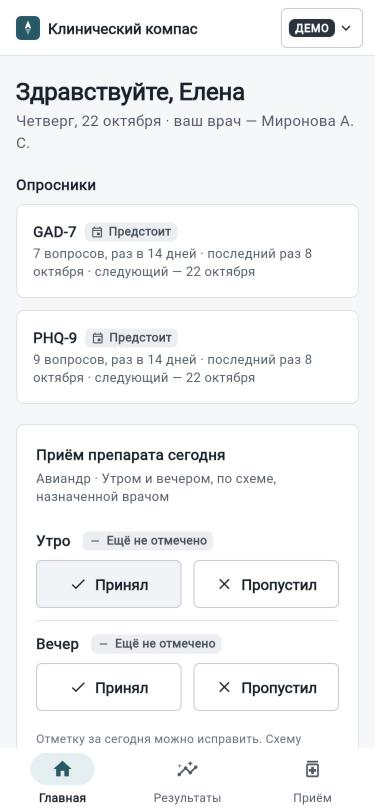
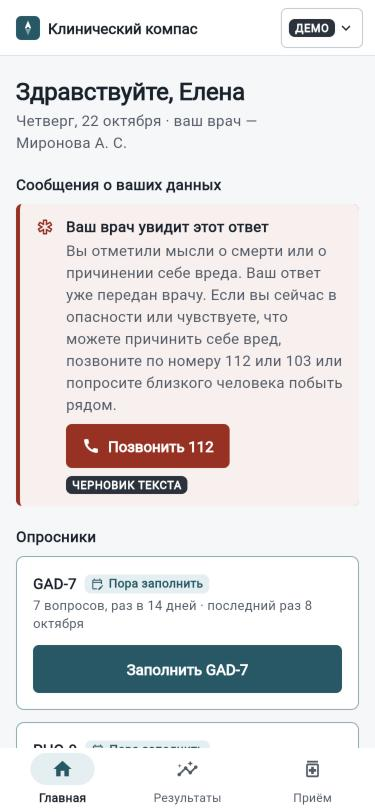
feat: entry layout for phones, call-112 button on the emergency notice

diff --git a/lib/presentation/entry/entry_screen.dart b/lib/presentation/entry/entry_screen.dart
@@ -19,6 +19,7 @@ class EntryScreen extends StatelessWidget {
     final width = MediaQuery.sizeOf(context).width;
     final narrow = width < Breakpoints.compact;
     final twoColumns = width >= 1024;
+    const header = _Header();
     const about = _About();
     final accounts = Column(
       crossAxisAlignment: CrossAxisAlignment.stretch,
@@ -48,17 +49,30 @@ class EntryScreen extends StatelessWidget {
                 ? Row(
                     crossAxisAlignment: CrossAxisAlignment.start,
                     children: [
-                      const Expanded(flex: 5, child: about),
+                      const Expanded(
+                        flex: 5,
+                        child: Column(
+                          crossAxisAlignment: CrossAxisAlignment.stretch,
+                          children: [
+                            header,
+                            SizedBox(height: Space.x6),
+                            about,
+                          ],
+                        ),
+                      ),
                       const SizedBox(width: Space.x8),
                       Expanded(flex: 6, child: accounts),
                     ],
                   )
                 : Column(
                     crossAxisAlignment: CrossAxisAlignment.stretch,
+                    // На телефоне сначала вход, описание сервиса — ниже.
                     children: [
-                      about,
+                      header,
                       const SizedBox(height: Space.x6),
                       accounts,
+                      const SizedBox(height: Space.x8),
+                      about,
                     ],
                   ),
           ),
@@ -68,57 +82,62 @@ class EntryScreen extends StatelessWidget {
   }
 }
 
+class _Header extends StatelessWidget {
+  const _Header();
+
+  @override
+  Widget build(BuildContext context) => Row(
+    children: [
+      const BrandMark(size: 40),
+      const SizedBox(width: Space.x3),
+      Expanded(
+        child: Column(
+          crossAxisAlignment: CrossAxisAlignment.start,
+          children: [
+            Semantics(header: true, child: const Text('Клинический компас', style: AppType.pageTitle)),
+            const Text('Сопровождение пациента между визитами · v0.2', style: AppType.bodySecondary),
+          ],
+        ),
+      ),
+    ],
+  );
+}
+
 class _About extends StatelessWidget {
   const _About();
 
   @override
-  Widget build(BuildContext context) => Column(
+  Widget build(BuildContext context) => const Column(
     crossAxisAlignment: CrossAxisAlignment.stretch,
     children: [
-      Row(
-        children: [
-          const BrandMark(size: 40),
-          const SizedBox(width: Space.x3),
-          Expanded(
-            child: Column(
-              crossAxisAlignment: CrossAxisAlignment.start,
-              children: [
-                Semantics(header: true, child: const Text('Клинический компас', style: AppType.pageTitle)),
-                const Text('Сопровождение пациента между визитами · v0.2', style: AppType.bodySecondary),
-              ],
-            ),
-          ),
-        ],
-      ),
-      const SizedBox(height: Space.x6),
-      const Text(
+      Text(
         'Пациент отмечает опросники, приём препарата и самочувствие. Правила v0.2 превращают данные '
         'в события с приоритетом, и врач видит их в рабочей очереди — без диагнозов от системы.',
         style: AppType.body,
       ),
-      const SizedBox(height: Space.x5),
-      const _Step(
+      SizedBox(height: Space.x5),
+      _Step(
         icon: Icons.phone_iphone,
         title: 'Пациент',
         body: 'GAD-7 и PHQ-9 раз в 14 дней, отметки приёма утром и вечером, жалобы и файлы.',
       ),
-      const _Step(
+      _Step(
         icon: Icons.rule,
         title: 'Правила',
         body: 'Конфигурация alert_rules v0.2: приоритет для врача и текст пациенту — разные поля.',
       ),
-      const _Step(
+      _Step(
         icon: Icons.inbox_outlined,
         title: 'Врач',
         body: 'Очередь событий: срочные закреплены сверху, у каждого — «Почему?» с правилом и фактами.',
       ),
-      const _Step(
+      _Step(
         icon: Icons.emergency_outlined,
         title: 'Срочные случаи',
         body: 'Пациент сразу видит экран с кнопкой «Позвонить 112»; врач — что пациент нажал.',
       ),
-      const SizedBox(height: Space.x4),
-      const _MisCard(),
+      SizedBox(height: Space.x4),
+      _MisCard(),
     ],
   );
 }

diff --git a/lib/presentation/shared/notices.dart b/lib/presentation/shared/notices.dart
@@ -1,10 +1,15 @@
+import 'dart:async';
+
 import 'package:flutter/material.dart';
+
+import 'package:clinical_compass/app/app_services.dart';
 
 import 'package:clinical_compass/core/design/components.dart';
 import 'package:clinical_compass/core/design/tokens.dart';
 import 'package:clinical_compass/core/design/typography.dart';
 import 'package:clinical_compass/domain/contract.dart';
 import 'package:clinical_compass/domain/json.dart';
+import 'package:clinical_compass/presentation/patient/emergency_alert.dart';
 
 /// Тексты для пациента по `patient_action` — только из реестра шаблонов.
 class NoticeList extends StatelessWidget {
@@ -50,6 +55,7 @@ class NoticeCard extends StatelessWidget {
       _ => Icons.info_outline,
     };
     final draft = template != null && template['status'] != 'approved';
+    final patient = context.services.api.user;
     return Semantics(
       liveRegion: true,
       child: InlineNotice(
@@ -57,10 +63,23 @@ class NoticeCard extends StatelessWidget {
         icon: icon,
         title: template?['title'] as String? ?? 'Сообщение передано врачу',
         body: template?['body'] as String? ?? 'Ваш врач увидит эту информацию.',
-        action: draft
-            ? const Row(
+        action: draft || action == PatientAction.recommendAmbulance
+            ? Wrap(
+                spacing: Space.x3,
+                runSpacing: Space.x2,
+                crossAxisAlignment: WrapCrossAlignment.center,
                 children: [
-                  DemoTag(label: 'ЧЕРНОВИК ТЕКСТА', tooltip: 'Текст ожидает утверждения медицинским экспертом'),
+                  if (action == PatientAction.recommendAmbulance && patient != null)
+                    FilledButton.icon(
+                      style: FilledButton.styleFrom(backgroundColor: AppColors.dangerFg),
+                      onPressed: () => unawaited(
+                        showEmergencyAlert(context, api: context.api, patientId: patient.id, notice: notice),
+                      ),
+                      icon: const Icon(Icons.call, size: 18),
+                      label: const Text('Позвонить 112'),
+                    ),
+                  if (draft)
+                    const DemoTag(label: 'ЧЕРНОВИК ТЕКСТА', tooltip: 'Текст ожидает утверждения медицинским экспертом'),
                 ],
               )
             : null,
